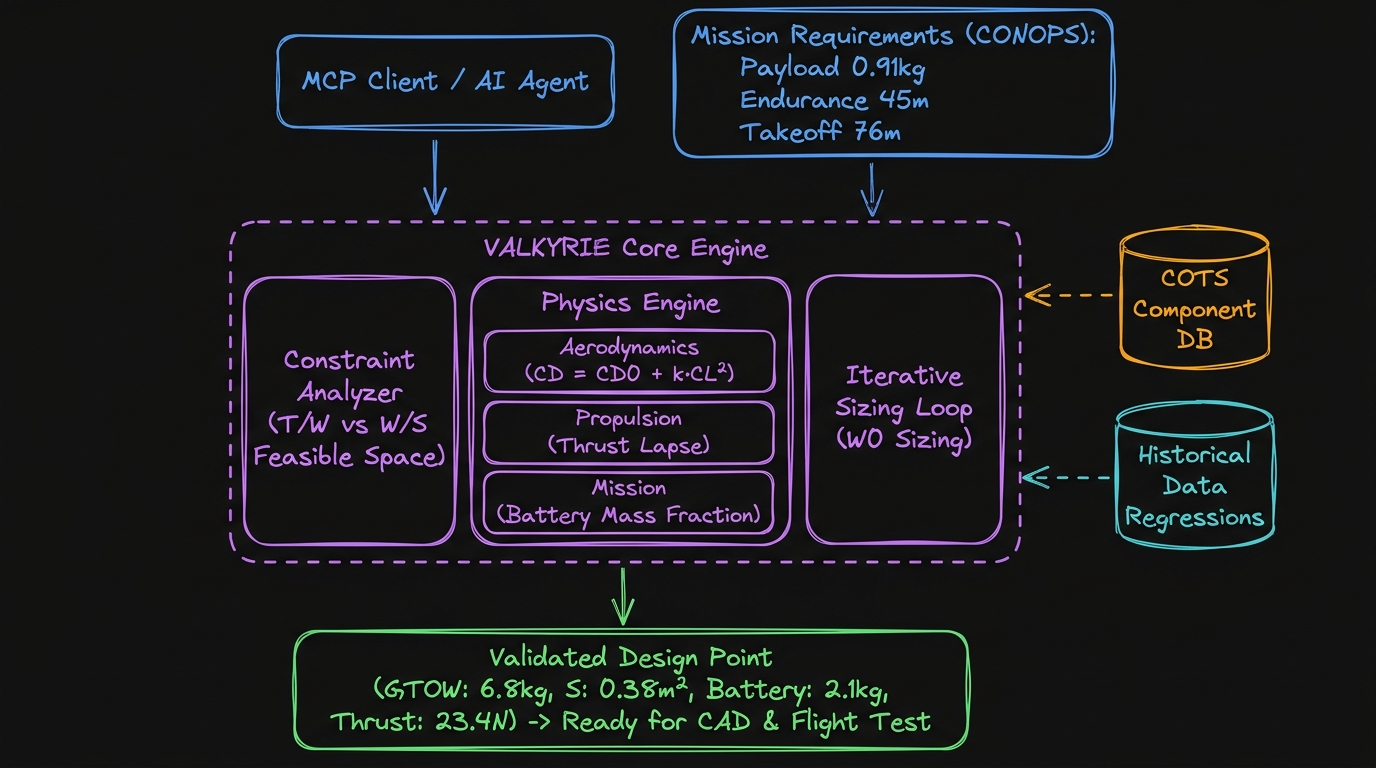
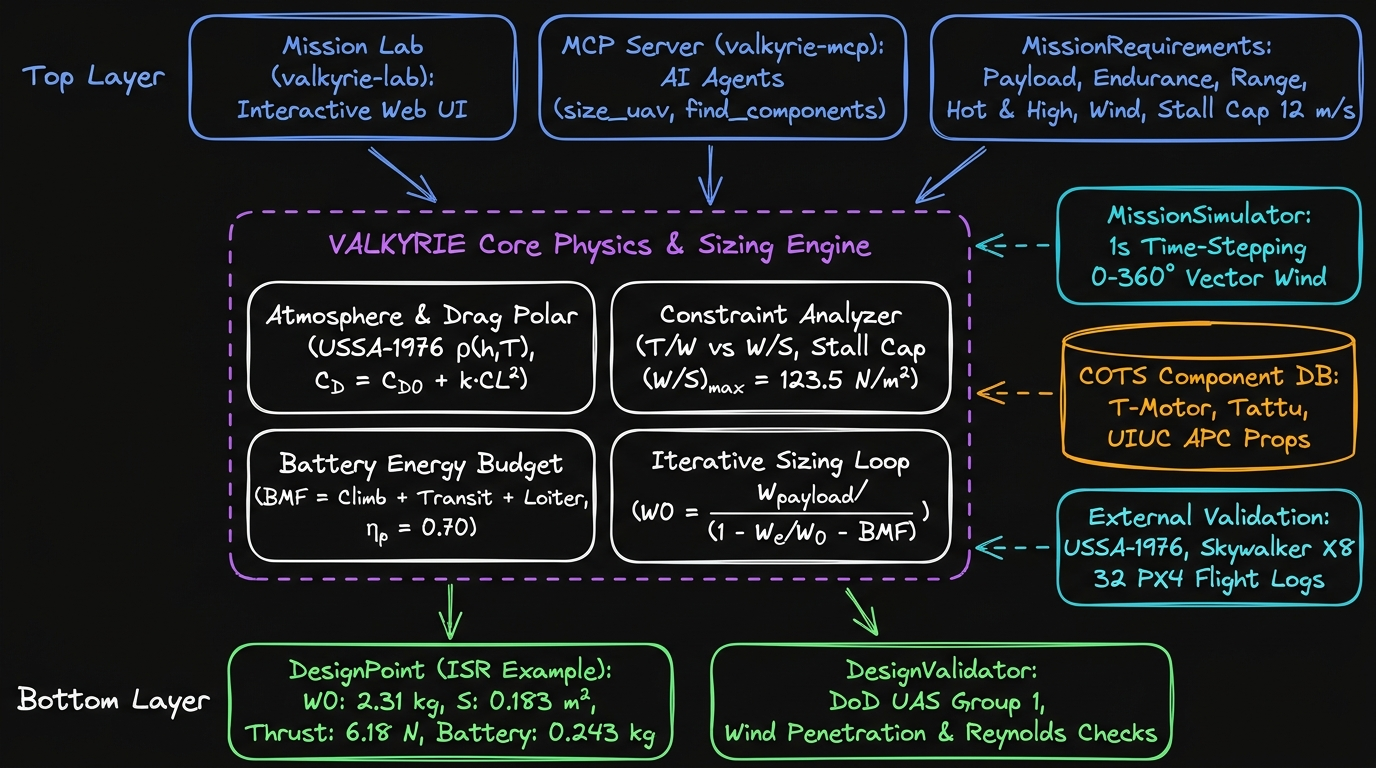
changes

diff --git a/README.md b/README.md
@@ -71,12 +71,12 @@ the DoD UAS Group and every engineering check. Same engine as the library and MC
 
 <div align="center">
 <img src="docs/assets/architecture_diagram.png" width="100%" alt="VALKYRIE Excalidraw Dark-Mode System Architecture">
-<br><em>Mission CONOPS & MCP client → VALKYRIE physics & sizing engine → validated design point</em>
+<br><em>Mission Lab, MCP server & CONOPS → VALKYRIE physics, sizing & simulation engine → validated design point & DoD checks (<a href="docs/assets/architecture_diagram.svg">SVG</a>)</em>
 </div>
 
-1. **Mission input**: payload, endurance and/or range (one-way or out-and-back), field elevation, cruise altitude, temperature, wind, stall speed; from Python or an LLM over MCP.
-2. **Physics engine**: constraint analysis (T/W vs W/S), parabolic drag polar, battery energy budget for climb, transit (with wind) and loiter, iterative weight closure.
-3. **Validated design point**: weight, wing, thrust, battery, DoD UAS Group and every failed check, or the physical reason the mission can't be flown.
+1. **Mission input & interfaces**: payload, endurance and/or range (one-way or `round_trip`), field elevation, cruise altitude, temperature (hot-and-high), wind (`max_wind_speed_ms`), and stall speed cap (`max_stall_speed_ms`); driven from Python, **Mission Lab** (`valkyrie-lab`), or an LLM over **MCP** (`valkyrie-mcp`).
+2. **Physics, sizing & simulation engine**: USSA-1976 geopotential atmosphere, parabolic drag polar ($C_D = C_{D0} + k C_L^2$), constraint analysis ($T/W$ vs. $W/S$ with stall/landing cap), wind-optimal battery energy budget (climb + transit out + loiter + transit back, UIUC-validated $\eta_p = 0.70$), iterative weight closure with runaway guards, and a 1 s time-stepping **MissionSimulator** with 0–360° vector wind.
+3. **Validated design point & military checks**: weight, wing area, thrust, battery mass, **DoD UAS Group (1–5)**, wind-penetration and structural/Reynolds checks, plus sourced COTS component lookup — or `feasible: false` with the physical reason the mission can't be flown.
 
 How each step works, with equations and sources: **[docs/theory.md](docs/theory.md)**.
 

diff --git a/docs/theory.md b/docs/theory.md
@@ -19,6 +19,10 @@ How VALKYRIE turns a mission into an aircraft, step by step. Every equation here
 
 ## 1. Workflow
 
+<div align="center">
+<img src="assets/architecture_diagram.png" width="100%" alt="VALKYRIE System Architecture">
+</div>
+
 ```
 MissionRequirements ──► ConstraintAnalyzer ──► (W/S, T/W) ──► SizingLoop ──► DesignPoint ──► DesignValidator
    payload, endurance,     T/W vs W/S             design point     W0, battery,      weight, wing,    DoD group,
@@ -98,6 +102,11 @@ $$
 with $V_{s,req}$ = `max_stall_speed_ms` (default 12 m/s) and $s_{land}$ = `landing_distance_m`, else $1.2\,s_{TO}$.
 
 **Design point:** sweep $W/S$ from 10 N/m² to $(W/S)_{max}$ (51 points). At each, required $T/W$ is the largest of the three constraints. Keep points with $T/W < 0.6$ and pick the **highest** $W/S$ (smallest wing). No feasible point raises `PhysicsViolationError`.
+
+<div align="center">
+<img src="assets/constraint_diagram_example.png" width="85%" alt="Constraint Analysis T/W vs W/S Diagram">
+<br><em>T/W vs. W/S constraint diagram for the 0.91 kg, 45-minute ISR mission: stall-limited wing loading at 123.5 N/m², T/W = 0.273, W₀ = 2.31 kg.</em>
+</div>
 
 ---
 
